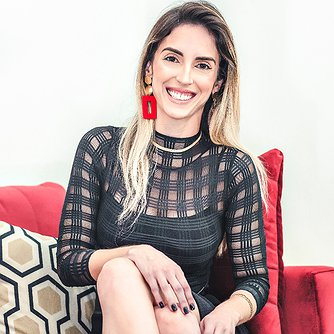
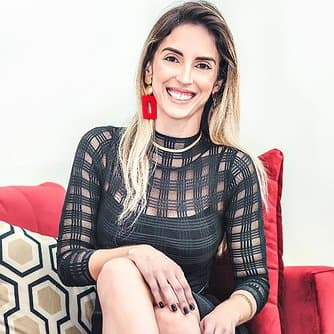
updated images

diff --git a/base_site/mainapp/templates/mainapp/index.html b/base_site/mainapp/templates/mainapp/index.html
@@ -81,7 +81,7 @@
           <div class="col-md-4">
             <img
               class="about-img"
-              src="{% static_push 'mainapp/images/about-me.jpg' %}"
+              src="{% static_push 'mainapp/images/about-me-2.jpg' %}"
               alt="{{ home.image_alt }}"
             />
           </div>
